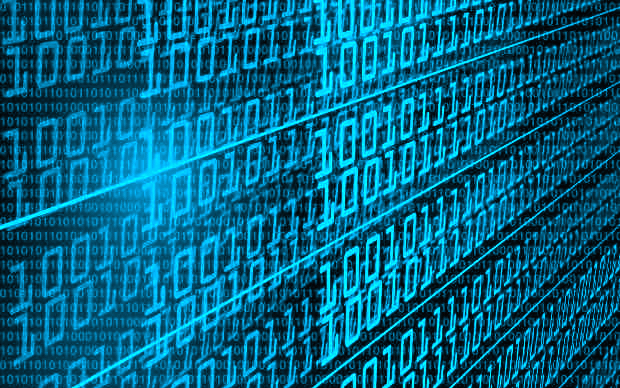
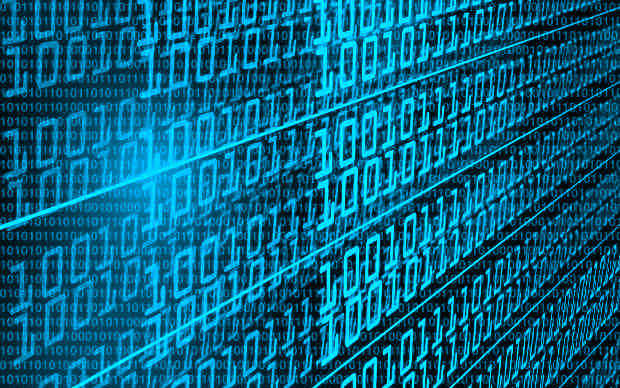
style(images): tried to reduce image size

diff --git a/gulpfile.js b/gulpfile.js
@@ -22,6 +22,7 @@
 // Include Gulp & Tools We'll Use
 var gulp        = require('gulp'),
     $           = require('gulp-load-plugins')(),
+    jpegoptim   = require('imagemin-jpegoptim'),
     del         = require('del'),
     runSequence = require('run-sequence'),
     browserSync = require('browser-sync'),
@@ -61,7 +62,8 @@ gulp.task('images', function () {
   return gulp.src('app/assets/images/**/*')
     .pipe($.cache($.imagemin({
       progressive: true,
-      interlaced: true
+      interlaced: true,
+      use: [jpegoptim({size: '50%'})]
     })))
     .pipe(gulp.dest('dist/images'))
     .pipe($.size({title: 'images'}));
